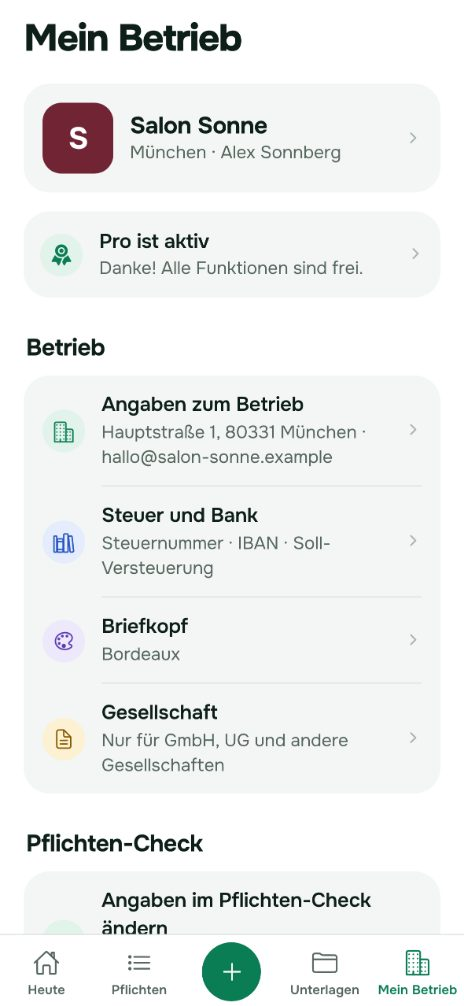
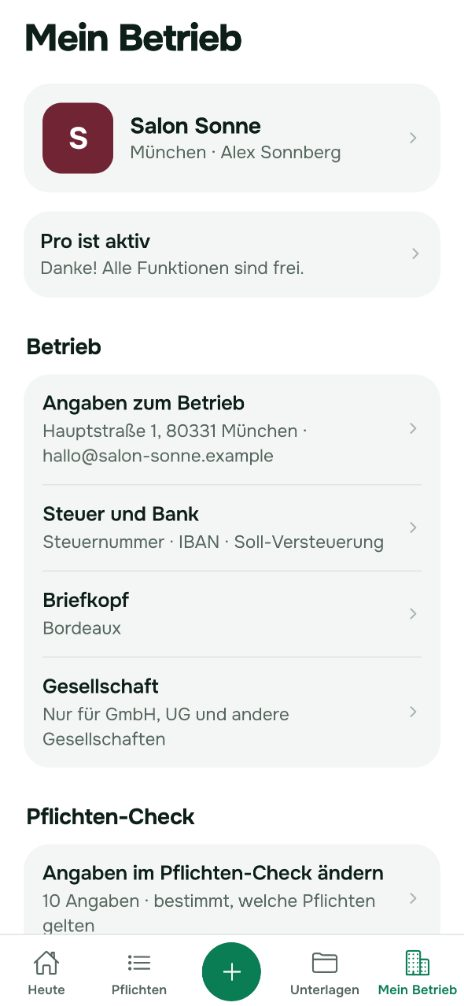
E-139 (5): Reduktion – weniger Symbole, Kästen und Farben, Knöpfe nur mit Text, ruhigere Titel
Claude-Session: https://claude.ai/code/session_01WbXnSzce2P68GngQY2h6hr

diff --git a/apps/mobile/src/ui/bausteine.tsx b/apps/mobile/src/ui/bausteine.tsx
@@ -13,7 +13,7 @@ type Variante = "grossTitel" | "titel" | "gross" | "basis" | "klein" | "caption"
 const STIL: Record<Variante, TextStyle> = {
   grossTitel: { fontSize: GROESSE.grossTitel, lineHeight: 37, fontFamily: SCHRIFT.display, letterSpacing: -1 },
   titel: { fontSize: GROESSE.titel, lineHeight: 31, fontFamily: SCHRIFT.bold, letterSpacing: -0.7 },
-  gross: { fontSize: GROESSE.gross, lineHeight: 25, fontFamily: SCHRIFT.bold, letterSpacing: -0.35 },
+  gross: { fontSize: 19, lineHeight: 24, fontFamily: SCHRIFT.bold, letterSpacing: -0.3 },
   basis: { fontSize: GROESSE.basis, lineHeight: 24, fontFamily: SCHRIFT.regular, letterSpacing: -0.1 },
   klein: { fontSize: GROESSE.klein, lineHeight: 21, fontFamily: SCHRIFT.regular },
   caption: { fontSize: GROESSE.caption, lineHeight: 18, fontFamily: SCHRIFT.regular },
@@ -217,7 +217,8 @@ export function Knopf({ text, onPress, leise, ton, gefahr, buehne, deaktiviert, 
         stil,
       ]}
     >
-      {laedt ? <ActivityIndicator color={schrift} /> : symbol ? <Symbol name={symbol} groesse={18} farbe={schrift} gewicht="semibold" /> : null}
+      {/* Knöpfe tragen Text – Symbole nur, wo sie eine feste Bedeutung haben (Teilen, Face ID) */}
+      {laedt ? <ActivityIndicator color={schrift} /> : symbol && KNOPF_SYMBOLE.has(symbol) ? <Symbol name={symbol} groesse={18} farbe={schrift} gewicht="semibold" /> : null}
       {/* der Text bleibt beim Laden stehen („Wird verschlüsselt …“) */}
       <RNText style={{ fontFamily: SCHRIFT.halb, fontSize: GROESSE.basis, letterSpacing: 0.1, color: schrift, textAlign: "center", flexShrink: 1 }}>{text}</RNText>
     </Pressable>
@@ -227,17 +228,17 @@ export function Knopf({ text, onPress, leise, ton, gefahr, buehne, deaktiviert, 
 /** Schnellzugriff als Kachel: Symbol oben, Beschriftung darunter – zwei nebeneinander. */
 export function SchnellKachel({ symbol, text, onPress, ton = "amt" }: { symbol: string; text: string; onPress: () => void; ton?: Ton }) {
   const f = useFarben();
-  const t = tonFarben(f, ton);
-  // farbige Fläche in der Zweitfarbe, Symbol auf weißem Kreis – Kategorien erkennt man an der Farbe, lesen am Wort
+  void ton;
+  // ruhige Fläche, ein Symbol in Amtsgrün, das Wort – keine Bonbonfarben
   return (
-    <Pressable accessibilityRole="button" accessibilityLabel={text} onPress={onPress} style={({ pressed }) => ({ flex: 1, minHeight: 112, padding: 14, borderRadius: RADIUS.karte, backgroundColor: t.grund, justifyContent: "space-between", gap: 14, opacity: pressed ? 0.75 : 1, transform: [{ scale: pressed ? 0.98 : 1 }] })}>
-      <View style={{ width: 38, height: 38, borderRadius: 19, backgroundColor: f.papier, alignItems: "center", justifyContent: "center" }}>
-        <Symbol name={symbol} groesse={19} farbe={t.zeichen} gewicht="semibold" />
-      </View>
+    <Pressable accessibilityRole="button" accessibilityLabel={text} onPress={onPress} style={({ pressed }) => ({ flex: 1, minHeight: 104, padding: 16, borderRadius: RADIUS.karte, backgroundColor: pressed ? f.flaeche : f.blatt, justifyContent: "space-between", gap: 14 })}>
+      <Symbol name={symbol} groesse={22} farbe={f.amt} gewicht="medium" />
       <T fett stil={{ letterSpacing: -0.2 }}>{text}</T>
     </Pressable>
   );
 }
+
+const KNOPF_SYMBOLE = new Set(["square.and.arrow.up", "faceid"]);
 
 /** Handlung als Text (Links, „Entfernen“, „Weitere Angaben“) – ohne Rahmen, 44 pt Tippfläche. */
 export function TextKnopf({ text, onPress, symbol, gefahr, leise, stil, label }: { text: string; onPress: () => void; symbol?: string; gefahr?: boolean; leise?: boolean; stil?: StyleProp<ViewStyle>; label?: string }) {
@@ -245,7 +246,7 @@ export function TextKnopf({ text, onPress, symbol, gefahr, leise, stil, label }:
   const farbe = gefahr ? f.frist : leise ? f.tinteLeise : f.amt;
   return (
     <Pressable accessibilityRole="button" accessibilityLabel={label ?? text} onPress={onPress} hitSlop={4} style={({ pressed }) => [{ minHeight: 44, flexDirection: "row", alignItems: "center", gap: 7, alignSelf: "flex-start", opacity: pressed ? 0.55 : 1 }, stil]}>
-      {symbol ? <Symbol name={symbol} groesse={16} farbe={farbe} gewicht="semibold" /> : null}
+      {symbol && symbol.startsWith("chevron") ? <Symbol name={symbol} groesse={13} farbe={farbe} gewicht="bold" /> : null}
       <T v="klein" fett farbe={farbe}>{text}</T>
     </Pressable>
   );
@@ -286,11 +287,11 @@ export function KopfKnopf({ symbol, label, onPress }: { symbol: string; label: s
 }
 
 /** Zeile mit Kennzahl-Symbol und einem Satz – für Ergebnisse („Für 15 davon gibt es eine Vorlage“). */
-export function Fakt({ symbol, ton, text, letzte }: { symbol: string; ton?: Ton; text: string; letzte?: boolean }) {
+export function Fakt({ symbol: _symbol, ton, text, letzte }: { symbol: string; ton?: Ton; text: string; letzte?: boolean }) {
   const f = useFarben();
   return (
     <View style={{ flexDirection: "row", alignItems: "center", gap: 14 }}>
-      <Kachel symbol={symbol} ton={ton} groesse={30} />
+      <View style={{ width: 7, height: 7, borderRadius: 4, backgroundColor: tonFarben(f, ton ?? "amt").zeichen }} />
       <View style={{ flex: 1, paddingVertical: 12, borderBottomWidth: letzte ? 0 : HAARLINIE, borderColor: f.linie }}>
         <T v="klein">{text}</T>
       </View>
@@ -347,7 +348,10 @@ export function Abschnitt({ titel, rechts, children }: { titel?: string; rechts?
  */
 export function Zeile({ links, symbol, ton, titel, text, wert, marke, rechts, onPress, letzte }: { links?: ReactNode; symbol?: string; ton?: Ton; titel: string; text?: string; wert?: string; marke?: { text: string; ton: Ton }; rechts?: ReactNode; onPress?: () => void; letzte?: boolean }) {
   const f = useFarben();
-  const vorn = symbol ? <Kachel symbol={symbol} ton={ton} /> : links;
+  // keine Symbolkreise vor Listenzeilen – nur, wo das Element selbst Information trägt (Fristblatt, Status, Initialen)
+  void symbol;
+  void ton;
+  const vorn = links;
   const inhalt = (pressed: boolean) => (
     <View style={{ flexDirection: "row", alignItems: "center", opacity: pressed ? 0.55 : 1 }}>
       {vorn ? <View style={{ marginRight: 14, minWidth: 24, alignItems: "center" }}>{vorn}</View> : null}
@@ -396,12 +400,14 @@ export function Hinweis({ text, art = "info", symbol }: { text: string; art?: "i
   useEffect(() => {
     if (art === "fehler" || art === "erfolg") AccessibilityInfo.announceForAccessibility(text);
   }, [art, text]);
+  // neutrale Hinweise ohne Kasten (ruhig, wie eine Fußnote); Warnung, Fehler, Erfolg mit Fläche
+  const kasten = art !== "info";
   return (
-    <View accessibilityRole={art === "fehler" ? "alert" : "text"} accessibilityLiveRegion="polite" style={{ flexDirection: "row", gap: 11, alignItems: "flex-start", backgroundColor: hg, borderRadius: RADIUS.klein, paddingVertical: 12, paddingHorizontal: 14, marginVertical: 6 }}>
+    <View accessibilityRole={art === "fehler" ? "alert" : "text"} accessibilityLiveRegion="polite" style={{ flexDirection: "row", gap: 10, alignItems: "flex-start", backgroundColor: kasten ? hg : "transparent", borderRadius: RADIUS.klein, paddingVertical: kasten ? 12 : 4, paddingHorizontal: kasten ? 14 : 0, marginVertical: 6 }}>
       <View style={{ paddingTop: 2 }}>
         <Symbol name={symbol ?? (art === "fehler" ? "exclamationmark.triangle" : art === "erfolg" ? "checkmark.circle" : art === "warnung" ? "exclamationmark.circle" : "info.circle")} groesse={17} farbe={farbe} gewicht="semibold" />
       </View>
-      <T v="klein" stil={{ flex: 1 }}>{text}</T>
+      <T v="klein" leise={!kasten} stil={{ flex: 1 }}>{text}</T>
     </View>
   );
 }
@@ -548,9 +554,9 @@ function Chip({ text, an, rolle, onPress, kaestchen }: { text: string; an: boole
         if (istIos) void Haptics.selectionAsync();
         onPress();
       }}
-      style={({ pressed }) => ({ minHeight: 40, paddingLeft: an || kaestchen ? 11 : 15, paddingRight: 15, borderRadius: 20, flexDirection: "row", alignItems: "center", gap: 6, backgroundColor: an ? f.amt : pressed ? f.flaeche : f.papier, borderWidth: an ? 0 : 1, borderColor: f.rahmen, margin: an ? 1 : 0, flexShrink: 1 })}
+      style={({ pressed }) => ({ minHeight: 40, paddingLeft: kaestchen ? 11 : 16, paddingRight: 16, borderRadius: 20, flexDirection: "row", alignItems: "center", gap: 6, backgroundColor: an ? f.amt : pressed ? f.flaeche : f.papier, borderWidth: an ? 0 : 1, borderColor: f.rahmen, margin: an ? 1 : 0, flexShrink: 1 })}
     >
-      {kaestchen ? <Symbol name={an ? "checkmark.square.fill" : "square"} groesse={16} farbe={an ? f.amtText : f.tinteLeise} /> : an ? <Symbol name="checkmark" groesse={13} farbe={f.amtText} gewicht="bold" /> : null}
+      {kaestchen ? <Symbol name={an ? "checkmark.square.fill" : "square"} groesse={16} farbe={an ? f.amtText : f.tinteLeise} /> : null}
       <T v="klein" fett farbe={an ? f.amtText : f.tinte} stil={{ flexShrink: 1 }}>{text}</T>
     </Pressable>
   );

diff --git a/apps/mobile/src/seiten/Heute.tsx b/apps/mobile/src/seiten/Heute.tsx
@@ -1,15 +1,14 @@
 import { useMemo } from "react";
 import { Pressable, View } from "react-native";
 import { T as TEXT } from "../texte";
-import { Betrag, Hinweis, Kachel, Karte, SchnellKachel, T, TextKnopf, type Ton } from "../ui/bausteine";
+import { Betrag, Hinweis, Karte, SchnellKachel, T, TextKnopf, type Ton } from "../ui/bausteine";
 import { useNav } from "../ui/navigation";
-import { RADIUS, schattenStil, useFarben } from "../ui/thema";
+import { RADIUS, SCHRIFT, schattenStil, useFarben } from "../ui/thema";
 import { euroText, monatsSumme, offeneSumme } from "../unterlagen/ablage";
 import { heute, sortiert } from "../unterlagen/speicher";
 import { dringlichkeit, istErledigt } from "../pflichten/check";
 import { useAmtlos } from "../zustand";
 import { BelegErfassenSeite } from "./Belege";
-import { useErstellen } from "./Erstellen";
 import { Gruppe, Seite } from "./gemeinsam";
 import { Einladung, PflichtZeile, checkGemacht, useAuswertung } from "./Pflichten";
 import { SicherungsKarte } from "./Sicherung";
@@ -17,7 +16,7 @@ import { useOeffnen, useStarten } from "./starten";
 import { UnterlageZeile, useFehltJe, useUeberfaellig } from "./Unterlagen";
 
 /** Kennzahl als Kachel: Beschriftung, großer Betrag, eine Zeile dazu – antippen führt zur Liste dahinter. */
-function Kennzahl({ label, wert, text, ton = "amt", symbol, onPress }: { label: string; wert: string; text: string; ton?: Ton; symbol: string; onPress: () => void }) {
+function Kennzahl({ label, wert, text, ton = "amt", symbol: _symbol, onPress }: { label: string; wert: string; text: string; ton?: Ton; symbol: string; onPress: () => void }) {
   const f = useFarben();
   return (
     <Pressable
@@ -26,13 +25,10 @@ function Kennzahl({ label, wert, text, ton = "amt", symbol, onPress }: { label: 
       onPress={onPress}
       style={({ pressed }) => [{ flex: 1, minWidth: 0, padding: 14, gap: 10, borderRadius: RADIUS.karte, backgroundColor: f.blatt, borderWidth: 0, opacity: pressed ? 0.7 : 1 }, schattenStil(f)]}
     >
-      <View style={{ flexDirection: "row", alignItems: "center", gap: 8 }}>
-        <Kachel symbol={symbol} ton={ton} groesse={26} />
-        <T v="caption" fett leise numberOfLines={1} stil={{ flex: 1 }}>{label}</T>
-      </View>
+      <T v="caption" fett leise numberOfLines={1}>{label}</T>
       <View>
-        <Betrag v="gross" stil={{ fontSize: 23, lineHeight: 28 }} >{wert}</Betrag>
-        <T v="caption" leise numberOfLines={2}>{text}</T>
+        <Betrag stil={{ fontFamily: SCHRIFT.display, fontSize: 25, lineHeight: 30, letterSpacing: -0.6 }}>{wert}</Betrag>
+        <T v="caption" farbe={ton === "frist" ? f.frist : undefined} leise={ton !== "frist"} numberOfLines={2}>{text}</T>
       </View>
     </Pressable>
   );
@@ -46,7 +42,6 @@ export function Heute() {
   const z = useAmtlos();
   const { stand, tabWechseln } = z;
   const nav = useNav();
-  const erstellen = useErstellen();
   const starten = useStarten();
   const oeffnen = useOeffnen();
   const fehltJe = useFehltJe();
@@ -101,7 +96,6 @@ export function Heute() {
         <View style={{ flexDirection: "row", gap: 12 }}>
           <SchnellKachel symbol="eurosign" text={TEXT.rechnung_schreiben} onPress={() => starten("rechnung")} />
           <SchnellKachel ton="blau" symbol="doc.viewfinder" text={TEXT.beleg_erfassen} onPress={() => nav.oeffnen("beleg-erfassen", () => <BelegErfassenSeite />)} />
-          <SchnellKachel ton="lila" symbol="square.grid.2x2" text={TEXT.vorlage_waehlen} onPress={erstellen.oeffnen} />
         </View>
       </Gruppe>
 

diff --git a/apps/mobile/src/seiten/Pro.tsx b/apps/mobile/src/seiten/Pro.tsx
@@ -3,7 +3,7 @@ import { ActivityIndicator, Linking, Pressable, ScrollView, View } from "react-n
 import { SafeAreaView } from "react-native-safe-area-context";
 import { LINKS } from "../rechtliches";
 import { T as TEXT } from "../texte";
-import { Betrag, Fuss, Hinweis, Kachel, Karte, Knopf, KopfKnopf, Motiv, Symbol, T, TextKnopf } from "../ui/bausteine";
+import { Betrag, Fuss, Hinweis, Karte, Knopf, KopfKnopf, Motiv, Symbol, T, TextKnopf } from "../ui/bausteine";
 import { useMeldung } from "../ui/meldung";
 import { useNav } from "../ui/navigation";
 import { HAARLINIE, RADIUS, RAND, schattenStil, useFarben } from "../ui/thema";
@@ -16,7 +16,6 @@ import { DatenschutzSeite } from "./Recht";
 /** „Synchronisation“ nur zeigen, wenn dieser Build einen Server hat (E-134). */
 const VORTEILE = PRO_VORTEILE.filter((v) => v !== "sync" || syncAngeboten);
 
-const VORTEIL_SYMBOL: Record<ProFunktion, string> = { pdf: "doc.on.doc", e_rechnung: "doc.text", ust_uebernahme: "percent", steuerberater: "briefcase", icloud: "icloud", sync: "arrow.triangle.2.circlepath", briefkopf: "paintpalette" };
 
 /**
  * Bezahlschirm (E-132): warum Pro, was Pro bringt, Angebote aus dem Store. Ohne Store-Anbindung (Testpaket) lässt
@@ -96,9 +95,9 @@ export function ProSeite({ grund }: { grund?: ProFunktion }) {
         <Karte stil={{ marginTop: 16 }}>
           {/* der Grund, aus dem der Bezahlschirm aufging, steht oben */}
           {(grund ? [grund, ...VORTEILE.filter((x) => x !== grund)] : VORTEILE).map((v, i, l) => (
-            <View key={v} style={{ flexDirection: "row", gap: 14, alignItems: "flex-start" }}>
-              <View style={{ paddingTop: 14 }}>
-                <Kachel symbol={VORTEIL_SYMBOL[v]} ton={(["amt", "lila", "blau", "gold"] as const)[i % 4]} />
+            <View key={v} style={{ flexDirection: "row", gap: 12, alignItems: "flex-start" }}>
+              <View style={{ paddingTop: 17 }}>
+                <Symbol name="checkmark" groesse={15} farbe={f.amt} gewicht="bold" />
               </View>
               <View style={{ flex: 1, paddingVertical: 14, borderBottomWidth: i === l.length - 1 ? 0 : HAARLINIE, borderColor: f.linie }}>
                 <T fett>{TEXT.pro_vorteil[v].titel}</T>
@@ -179,7 +178,6 @@ export function ProZeile() {
     <Pressable accessibilityRole="button" onPress={() => nav.oeffnen("pro", () => <ProSeite />, true)} style={({ pressed }) => ({ marginTop: 16, opacity: pressed ? 0.75 : 1 })}>
       {/* ruhige Karte wie die übrigen – die lauteste Fläche des Bildschirms soll nicht die Werbung sein */}
       <View style={[{ flexDirection: "row", alignItems: "center", gap: 14, padding: 14, borderRadius: RADIUS.karte, backgroundColor: f.blatt, borderWidth: 0 }, schattenStil(f)]}>
-        <Kachel symbol="checkmark.seal.fill" />
         <View style={{ flex: 1 }}>
           <T fett>{z.pro ? TEXT.pro_aktiv : TEXT.pro_titel}</T>
           <T v="klein" leise>{z.pro ? TEXT.pro_aktiv_text : TEXT.pro_rest(rest, FREI_JE_MONAT)}</T>

diff --git a/apps/mobile/src/seiten/Pflichten.tsx b/apps/mobile/src/seiten/Pflichten.tsx
@@ -2,7 +2,7 @@ import { useEffect, useMemo, useState } from "react";
 import { Linking, View } from "react-native";
 import { T as TEXT } from "../texte";
 import { useMeldung } from "../ui/meldung";
-import { Betrag, Fristblatt, Fuss, Hinweis, Kachel, Karte, Knopf, Motiv, Schalter, SchnellKachel, Symbol, T, TextKnopf, Zeile, tageBis } from "../ui/bausteine";
+import { Betrag, Fristblatt, Fuss, Hinweis, Karte, Knopf, Motiv, Schalter, SchnellKachel, Symbol, T, TextKnopf, Zeile, tageBis } from "../ui/bausteine";
 import { Unterseite, useNav } from "../ui/navigation";
 import { HAARLINIE, RADIUS, RAND, SCHRIFT, useFarben, weich } from "../ui/thema";
 import { KATEGORIE_TITEL, auswertung, beantwortet, dringlichkeit, erinnerungsPlan, fortschritt, frageZu, haken, istErledigt, offeneFragenNachWirkung, type PflichtInfo } from "../pflichten/check";
@@ -342,11 +342,8 @@ function Start() {
       <Gruppe titel={TEXT.start_so_hilft}>
         <Karte>
           {TEXT.start_punkte.map((p, i) => (
-            <View key={p.titel} style={{ flexDirection: "row", gap: 14, alignItems: "flex-start" }}>
-              <View style={{ paddingTop: 14 }}>
-                <Kachel symbol={p.symbol} />
-              </View>
-              <View style={{ flex: 1, paddingVertical: 14, borderBottomWidth: i === TEXT.start_punkte.length - 1 ? 0 : HAARLINIE, borderColor: f.linie }}>
+            <View key={p.titel}>
+              <View style={{ paddingVertical: 14, borderBottomWidth: i === TEXT.start_punkte.length - 1 ? 0 : HAARLINIE, borderColor: f.linie }}>
                 <T fett>{p.titel}</T>
                 <T v="klein" leise stil={{ marginTop: 2 }}>{p.text}</T>
               </View>

diff --git a/apps/mobile/src/seiten/Meine.tsx b/apps/mobile/src/seiten/Meine.tsx
@@ -2,7 +2,7 @@ import { useState, useMemo } from "react";
 import { ScrollView, View } from "react-native";
 import { T as TEXT } from "../texte";
 import { RAND } from "../ui/thema";
-import { Betrag, Kachel, Karte, Knopf, T, TextKnopf, Wahl } from "../ui/bausteine";
+import { Betrag, Karte, Knopf, T, TextKnopf, Wahl } from "../ui/bausteine";
 import { useNav } from "../ui/navigation";
 import { useFarben } from "../ui/thema";
 import { belegeFiltern, euroText, rechnungBrutto, filterVerfuegbar, filtern, offeneSumme, rechnungenSortiert, type Filter } from "../unterlagen/ablage";
@@ -23,7 +23,6 @@ function OffeneKarte({ anzahl, ueberfaellig, cent, aktiv, onPress }: { anzahl: n
   const f = useFarben();
   return (
     <Karte stil={{ marginBottom: 16, paddingVertical: 14, flexDirection: "row", alignItems: "center", gap: 14, backgroundColor: aktiv ? f.baldHauch : f.blatt }}>
-      <Kachel symbol={ueberfaellig ? "exclamationmark.circle" : anzahl ? "clock" : "checkmark.circle.fill"} ton={ueberfaellig ? "frist" : anzahl ? "bald" : "amt"} />
       <View style={{ flex: 1 }}>
         <T fett>{anzahl ? TEXT.offene_summe(anzahl, euroText(cent)) : TEXT.alles_bezahlt}</T>
         {anzahl ? <T v="caption" leise farbe={ueberfaellig ? f.frist : undefined}>{ueberfaellig ? TEXT.davon_ueberfaellig(ueberfaellig) : TEXT.offene_hilfe}</T> : null}

diff --git a/apps/mobile/src/seiten/Abschluss.tsx b/apps/mobile/src/seiten/Abschluss.tsx
@@ -287,7 +287,6 @@ function Zahlung({ id }: { id: string }) {
   return (
     <Karte stil={{ marginTop: 12, paddingVertical: 14, gap: 10 }}>
       <View style={{ flexDirection: "row", alignItems: "center", gap: 10 }}>
-        <Kachel symbol={u.bezahlt ? "checkmark.circle.fill" : faellig && faellig < heute() ? "exclamationmark.circle" : "clock"} ton={u.bezahlt ? "amt" : faellig && faellig < heute() ? "frist" : "bald"} groesse={30} />
         <View style={{ flex: 1 }}>
           <T fett>{u.bezahlt ? (erstattung ? TEXT.erstattet_am(datumDe(u.bezahlt)) : TEXT.bezahlt_am(datumDe(u.bezahlt))) : TEXT.offen_zahlung}</T>
           {/* Fälligkeit nach dem Zahlungsziel der Rechnung – überfällig in Rot */}

diff --git a/ENTSCHEIDUNGEN.md b/ENTSCHEIDUNGEN.md
@@ -773,6 +773,15 @@ Status: **angenommen** (vom Product Owner bestätigt) · **vorgeschlagen** (wart
   - Fußleisten ohne Linie.
 - **Marke:** neues App-Symbol: das § aus Onest Extrafett in Minze auf Dunkelgrün, dasselbe Motiv wie auf der Bühne. Splash, Favicon, Apple-Touch-Icon und Website-Logo nutzen es ebenfalls. Die Website übernimmt Schrift (Onest, selbst gehostet als woff2) und Farben der App. Die Source-Schriften der Website entfallen; die Dokumente behalten Amtlos Sans/Serif.
 - **Bewegung:** Beim Tabwechsel blendet die Seite kurz ein (160 ms). Abläufe zeigen „Schritt x von n“ über dem Titel.
+- **Reduktion:** Rückmeldung des Gründers: „die Elemente müssen cleaner aussehen“.
+  - Keine Symbolkreise mehr vor Listenzeilen. Symbole bleiben nur, wo sie Information tragen: Fristblatt, Status, Initialen, leere Listen.
+  - Knöpfe nur mit Text (Ausnahme: Teilen, Face ID). Textknöpfe ohne Symbol, außer Auf-/Zuklappen.
+  - Einfachauswahl ohne Häkchen; die Fläche zeigt die Wahl.
+  - Neutrale Hinweise ohne Kasten. Kästen nur noch für Warnung, Fehler und Erfolg.
+  - Schnellzugriffe als ruhige graue Flächen statt Pastell, Kennzahlen ohne Symbol.
+  - Pro-Vorteile mit schlichtem Haken.
+  - Abschnittstitel kleiner (19 statt 20 pt).
+  - „Heute“ hat nur noch zwei Schnellzugriffe; Vorlagen gibt es über „+“.
 - **Geprüft:** Rundgang hell und dunkel, Unit-Tests, Store- und Website-Bilder neu. Auf dem iPhone noch offen (→ T-82).
 
 ---
